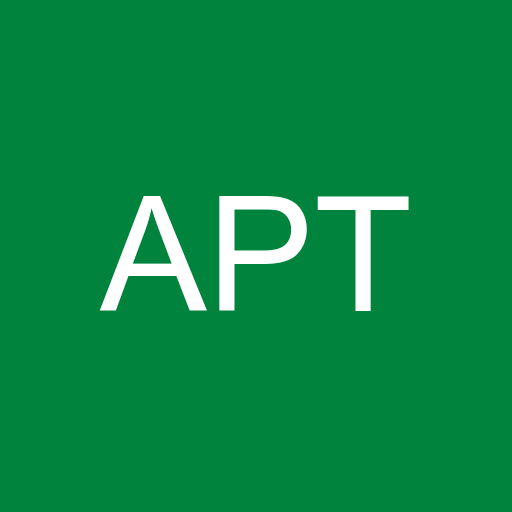
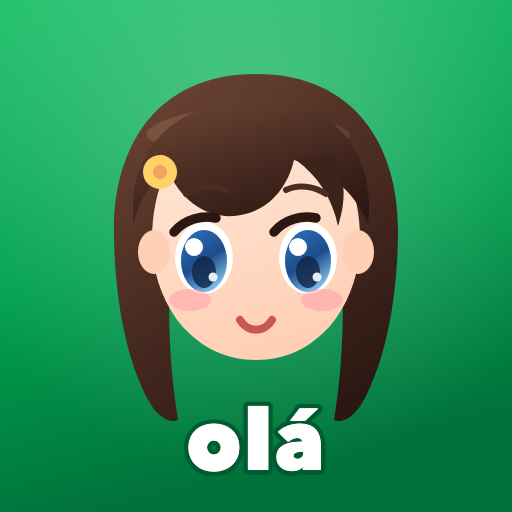
chore: 公开版快照（新图标 + 安装引导后重新脱敏）

diff --git a/site/index.html b/site/index.html
@@ -6,7 +6,8 @@
 <meta name="apple-mobile-web-app-capable" content="yes">
 <meta name="apple-mobile-web-app-title" content="APT">
 <link rel="manifest" href="manifest.json">
-<link rel="apple-touch-icon" href="icon.png">
+<link rel="apple-touch-icon" sizes="180x180" href="icon-180.png">
+<link rel="icon" type="image/png" sizes="192x192" href="icon-192.png">
 <title>APT</title>
 <!-- build 2026-10-07-11:53 -->
 <style>
@@ -64,6 +65,18 @@ progress{width:100%;height:10px;accent-color:var(--c)}
 .str{font-size:15px;line-height:1.5;color:var(--mu);margin:4px 0 4px 8px}
 .lv{display:inline-block;font-size:12px;padding:2px 8px;border-radius:6px;background:#00843D22;
  color:var(--c);margin-right:6px}
+/* 带授权码链接打开时的欢迎 / 安装引导（M10 前置） */
+.sheet{position:fixed;inset:0;z-index:50;background:rgba(12,20,16,.55);
+  display:flex;align-items:flex-end;justify-content:center;padding:16px;
+  padding-bottom:calc(16px + env(safe-area-inset-bottom));-webkit-backdrop-filter:blur(3px);backdrop-filter:blur(3px)}
+.sheet .box{background:var(--bg);border-radius:18px;padding:18px;width:100%;max-width:460px;
+  max-height:86vh;overflow:auto}
+.sheet h2{margin:2px 0 6px}
+.step{display:flex;gap:12px;align-items:flex-start;margin:14px 0}
+.step .n{flex:0 0 26px;height:26px;border-radius:50%;background:var(--c);color:#fff;
+  font-size:14px;line-height:26px;text-align:center;font-weight:700}
+.share{display:inline-block;border:1.5px solid var(--c);border-radius:6px;padding:0 6px;
+  color:var(--c);font-weight:700}
 .topbar{display:flex;align-items:center;gap:10px}
 .topbar .tl{flex:1}
 .topbar .tb{text-align:center;min-width:56px}
@@ -114,6 +127,7 @@ summary{font-weight:600;min-height:32px;cursor:pointer}
  <button data-t="stats" onclick="show('stats')">统计</button>
 </nav>
 <audio id="au" preload="auto"></audio>
+<div id="welcome" class="sheet hide" role="dialog" aria-modal="true"></div>
 <div id="toast" class="toast"></div>
 <script src="logic.js"></script>
 <script>
@@ -1243,6 +1257,115 @@ async function dlAll(btn) {
   btn.textContent = `已下载 ${n}/${list.length}`;
 }
 
+/* ---------- 授权码链接 / 安装引导 / 麦克风授权 ----------
+ * 专属链接形如 https://apt.example.com/#u=mei-8f3k2x
+ * 打开一次就把授权码记在这台设备上，之后「添加到主屏幕」的主屏 App 默认就是她的。
+ * 用 # 而不是 ? ：片段不会进服务器日志，也不会出现在 Referer 里。
+ *
+ * ⚠ iOS **不提供**任何「网页把自己加到主屏幕」的接口（Android 才有
+ * beforeinstallprompt），所以这里只能给三步图示引导，不能自动加。
+ * 麦克风可以：只要在用户手势里调 getUserMedia，授权一次之后录音就不再弹。
+ */
+const USER_KEY = 'aptuser';
+function inviteToken() {
+  const m = /(?:^|[#&?])u=([A-Za-z0-9_-]{4,64})/.exec(location.hash || '');
+  return m ? m[1] : '';
+}
+function currentUser() {
+  try { return localStorage.getItem(USER_KEY) || ''; } catch (e) { return ''; }
+}
+function isStandalone() {
+  return navigator.standalone === true
+      || (window.matchMedia && matchMedia('(display-mode: standalone)').matches);
+}
+function isIOS() {
+  return /iPad|iPhone|iPod/.test(navigator.userAgent)
+      || (navigator.platform === 'MacIntel' && navigator.maxTouchPoints > 1);
+}
+let deferredInstall = null;
+window.addEventListener('beforeinstallprompt', e => { e.preventDefault(); deferredInstall = e; });
+
+/** 要麦克风权限。必须在用户手势里调用，否则 iOS 直接拒。 */
+async function askMic() {
+  const btn = $('mico');
+  try {
+    const st = await navigator.mediaDevices.getUserMedia({ audio: true });
+    st.getTracks().forEach(t => t.stop());        // 拿到就立刻关掉，只是要授权
+    D.set.micOK = true; save();
+    if (btn) { btn.textContent = '✓ 麦克风已允许'; btn.className = 'g'; }
+    toast('麦克风已允许，跟读和听写可以直接用了', 2500);
+  } catch (e) {
+    if (btn) btn.textContent = '麦克风被拒绝 · 去设置里打开';
+    toast('没有拿到麦克风权限。设置 → Safari → 麦克风 里允许后再试', 5000);
+  }
+}
+
+function showWelcome(isNew) {
+  const el = $('welcome');
+  const installed = isStandalone();
+  const u = currentUser();
+  let h = `<div class="box">
+    <h2>${isNew ? '欢迎使用 APT' : '把 APT 放到主屏幕'}</h2>`;
+  if (u) h += `<p class="mu">这台设备已绑定：<b>${esc(u)}</b>（换人会换成别人的码）</p>`;
+
+  if (installed) {
+    h += `<p>已经在主屏 App 里打开了，一切就绪。</p>`;
+  } else if (isIOS()) {
+    h += `<p class="mu">iPhone 上没有「一键安装」这种接口，三步手动加一下，之后就和普通 App 一样了：</p>
+      <div class="step"><div class="n">1</div><div>用 <b>Safari</b> 打开本页（不要用微信或其它浏览器）</div></div>
+      <div class="step"><div class="n">2</div><div>点底部中间的 <span class="share">分享 ⬆</span> 按钮</div></div>
+      <div class="step"><div class="n">3</div><div>往下找 <b>「添加到主屏幕」</b>，点右上角「添加」</div></div>
+      <p class="mu">加完之后请从<b>主屏幕上的 APT 图标</b>打开，这样才有离线缓存和全屏。</p>`;
+  } else {
+    h += `<p>这台设备可以直接安装：</p>`;
+  }
+
+  const micOK = !!(D && D.set && D.set.micOK);
+  h += `<hr style="border:0;border-top:1px solid var(--bd);margin:16px 0">
+    <p><b>麦克风权限</b></p>
+    <p class="mu">跟读对比和听写要用麦克风。现在点一下授权，之后就不再弹窗了。</p>
+    <button id="mico" class="${micOK ? 'g' : ''}" onclick="askMic()">${micOK ? '✓ 麦克风已允许' : '允许使用麦克风'}</button>`;
+
+  if (!installed && !isIOS() && deferredInstall) {
+    h += `<button style="margin-top:10px" onclick="doInstall()">一键安装到桌面</button>`;
+  }
+  h += `<div class="row" style="margin-top:14px">
+    <button class="g" onclick="closeWelcome()">${isNew ? '开始学习' : '知道了'}</button></div></div>`;
+  el.innerHTML = h;
+  el.classList.remove('hide');
+}
+function doInstall() {
+  if (!deferredInstall) return;
+  deferredInstall.prompt();
+  deferredInstall = null;
+}
+function closeWelcome() { $('welcome').classList.add('hide'); }
+
+/** 启动时处理授权码链接。 */
+function bootstrapInvite() {
+  const t = inviteToken();
+  let isNew = false;
+  if (t) {
+    const old = currentUser();
+    if (old && old !== t) {
+      // 同一台设备换了授权码：数据是按人分的，先问清楚再动
+      if (!confirm(`这台设备原来绑定的是 ${old}。要换成 ${t} 吗？\n（换人不会删除原数据，但界面会加载新用户的记录）`)) {
+        history.replaceState(null, '', location.pathname + location.search);
+        return;
+      }
+    }
+    try { localStorage.setItem(USER_KEY, t); } catch (e) {}
+    isNew = old !== t;
+    // 把片段从地址栏抹掉：避免她截图/转发时把码带出去
+    history.replaceState(null, '', location.pathname + location.search);
+  }
+  // 有授权码，或者还没加到主屏 → 给一次引导
+  if (t || (isIOS() && !isStandalone() && !localStorage.getItem('aptwelcome'))) {
+    showWelcome(isNew);
+    try { localStorage.setItem('aptwelcome', '1'); } catch (e) {}
+  }
+}
+
 /* ---------- 启动 ---------- */
 document.addEventListener('visibilitychange', () => {
   if (document.hidden) return;
@@ -1259,6 +1382,7 @@ if (navigator.storage && navigator.storage.persist) {
 }
 startRound();          // 预热：进入复习页时队列已就绪
 show('today');
+bootstrapInvite();     // 授权码链接 / 安装引导 / 麦克风授权
 if ('serviceWorker' in navigator) navigator.serviceWorker.register('sw.js');
 </script>
 </body>

diff --git a/site/sw.js b/site/sw.js
@@ -5,12 +5,13 @@
  *   ⚠ ignoreSearch 只用于页面类资源。/api/tts 的查询串就是文本本身，
  *    忽略它会导致所有单词播同一段音频 —— 绝对不能这样做。
  */
-const C = 'apt-cache-v6';   // v6：M8 课文流水线（导入分组、来源、免责小字、新课文 L09）
+const C = 'apt-cache-v7';   // v7：新图标（二次元头像 + olá）
+                            // v6：M8 课文流水线（导入分组、来源、免责小字、新课文 L09）
                             // v5：修复「生词 ▶ 点不动」（onclick 里的 i 没被插值）
                             // v4：修复「课文卡片点不开」（jid 引号截断 onclick）
                             // v3：M7 质量修复（内容改 v2、逐句译文改点按、页面改版）
                             // v2：清掉可能存了 206 局部响应的旧缓存
-const FILES = ['./', './index.html', './logic.js', './sw.js', './manifest.json', './materials.json', './icon.png'];
+const FILES = ['./', './index.html', './logic.js', './sw.js', './manifest.json', './materials.json', './icon.png', './icon-192.png', './icon-180.png'];
 
 self.addEventListener('install', e => {
   self.skipWaiting();
